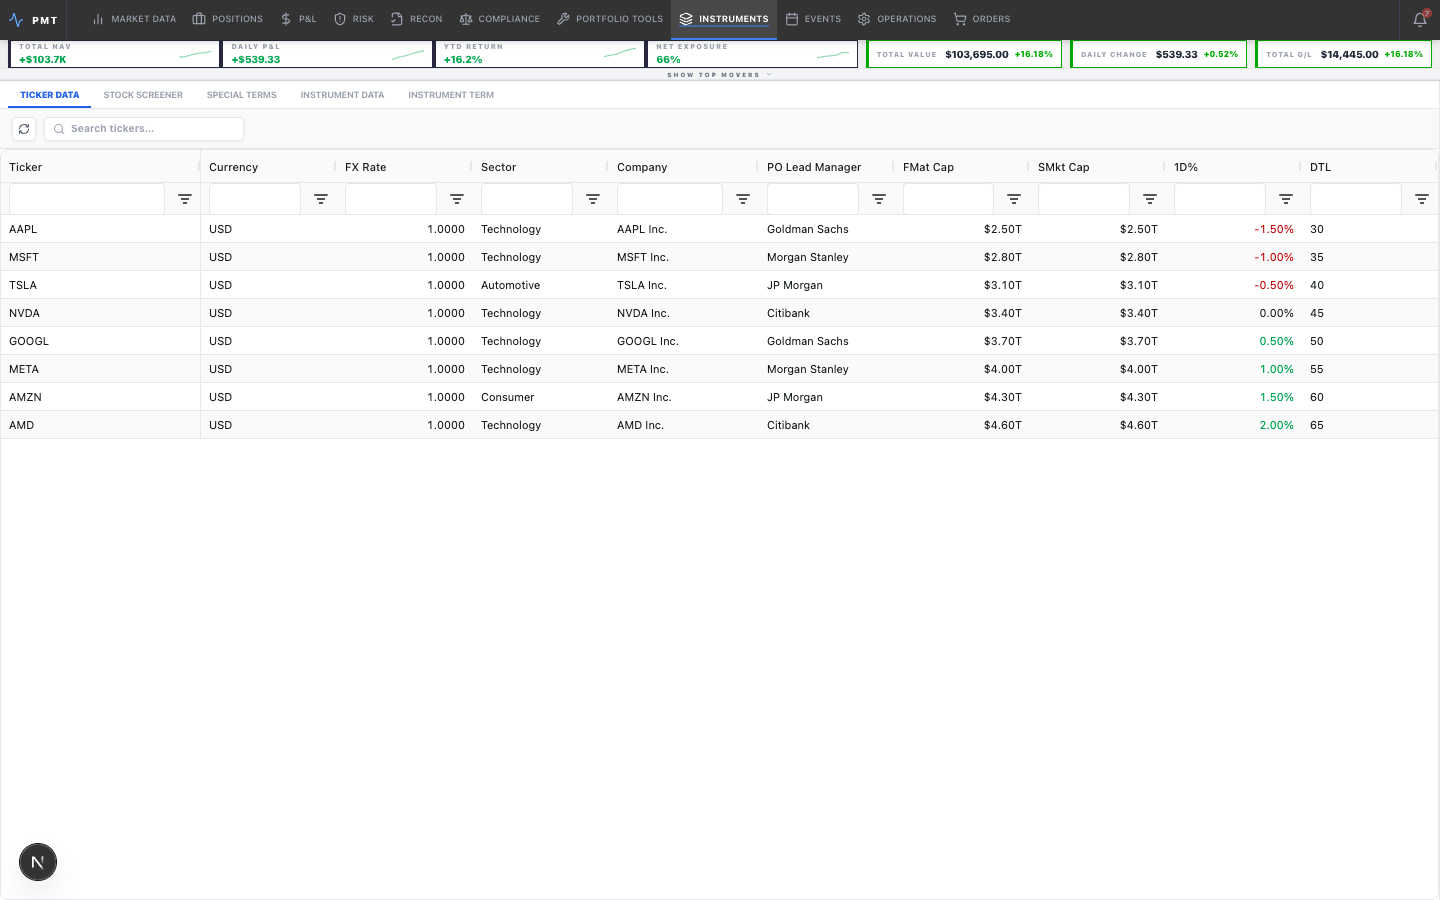
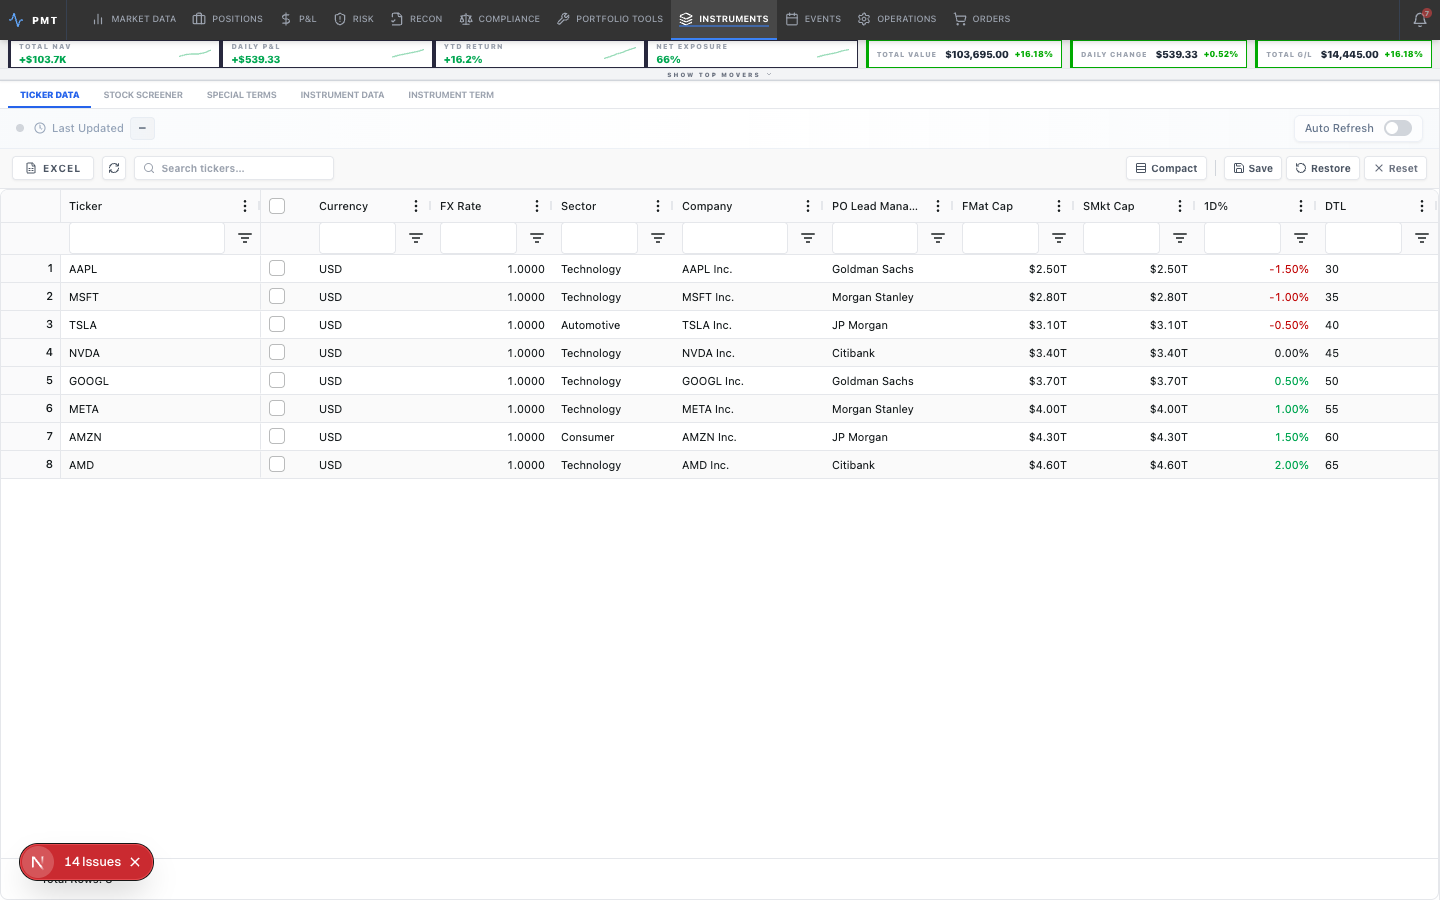
docs(parity): re-capture 22 side-by-side screenshots after feature-parity pass
Same three-terminal recipe as the 2026-05-06 capture (auth bypass on
both backend + frontend, sqlite override, 1440×900 viewport). README
rewritten to remove the rows that called out missing toolbars / status
bars and to add a "What now matches" section enumerating the
toolbar / grid runtime features now present on every Next.js dashboard
page (Excel export, Save/Restore/Reset, Compact, Auto-Refresh, search
clear, status bar, range selection, cell flash, row numbers,
multi-select, context menu, toolbar date picker, Generate dropdown,
filter bars on 5 representative pages, notification jump-to-row).

Documented intentional remaining deltas: Reflex captures show the
notification sidebar opened by default and the auto-refresh switch
on; Next.js captures show both off (per-session state). Both ports
run AG Grid Enterprise on a trial license so a watermark + console
warning appears on both — procuring a key is a follow-up.

diff --git a/docs/parity-screenshots/README.md b/docs/parity-screenshots/README.md
@@ -1,14 +1,19 @@
 # Parity Screenshots — Reflex (`:3001`) ↔ Next.js (`:3000`)
 
 This directory captures §11 exit criterion #12 from the
-2026-05-05 handoff brief: side-by-side proof that the canonical landing
-page in each of the 11 modules in `lib/constants.ts` renders the same
-data, columns, filters, formatting, and chrome on the Next.js
-implementation as it does on the Reflex reference.
+2026-05-05 handoff brief plus §10 #5 from the 2026-05-07 grid +
+chrome runtime feature-parity brief: side-by-side proof that the
+canonical landing page in each of the 11 modules in `lib/constants.ts`
+renders the same data, the same toolbar / status bar / filter chrome,
+and the same grid runtime features (Excel export, layout
+persistence, range selection, row numbers, multi-select, cell flash,
+auto-refresh, notification jump) on the Next.js implementation as it
+does on the Reflex reference.
 
 ## Capture environment
 
-Captured 2026-05-06 at 1440×900 viewport via `playwright-cli` against:
+Re-captured 2026-05-07 at 1440×900 viewport via `playwright-cli`
+against:
 
 | Service  | Port | Flags |
 |---|---|---|
@@ -18,6 +23,12 @@ Captured 2026-05-06 at 1440×900 viewport via `playwright-cli` against:
 
 The auth-bypass flags allow incognito-page parity comparison without
 logging in. Both flags default OFF in any committed env example.
+
+AG Grid Enterprise is now installed on the Next.js side
+(`ag-grid-enterprise@35.0.1`). Without an Enterprise license key the
+console prints a "License Key Not Found — All AG Grid Enterprise
+features are unlocked for trial" warning; Reflex runs in the same
+state. Procuring a license is out of scope.
 
 ## What's covered
 
@@ -37,65 +48,121 @@ logging in. Both flags default OFF in any committed env example.
 | `operations` | `daily-procedures` | `operations/daily-procedures-{reflex,nextjs}.png` |
 | `orders` | `emsx-order` | `orders/emsx-order-{reflex,nextjs}.png` |
 
+## What now matches (closed in 2026-05-07 pass)
+
+The 2026-05-06 captures had visible deltas where the Next.js shell
+was missing toolbar / status-bar / grid-runtime features. After the
+feature-parity pass those have been closed:
+
+- **Excel export button** (timestamped `<page>_YYYYMMDD_HHMM.xlsx`,
+  selection-aware via `shouldRowBeSkipped`).
+- **Save / Restore / Reset Layout** trio — column widths, sort, and
+  filter state persist under `pmt:next:<grid_id>_state`. Auto-restores
+  on `gridReady`.
+- **Compact mode toggle** — toggles row/header from 42/48 to 28/32 and
+  calls `autoSizeAllColumns` on enter / `sizeColumnsToFit` on exit
+  (matches Reflex pixel-faithfully per user-confirmed scope).
+- **Auto Refresh switch + Last Updated timestamp + live pulse**.
+- **Search clear (✕)** appears when search has a value.
+- **Status bar** — `agTotal / agFiltered / agSelected / agAggregation`
+  panels at the bottom.
+- **Range selection** (`cellSelection`) — click-and-drag cell ranges.
+- **Cell flash** on value change (`enableCellChangeFlash` on the
+  default col def for live grids).
+- **Row numbers** column on the left of every grid.
+- **Multi-row selection** with header + row checkboxes.
+- **Custom context menu** prop (right-click, e.g. Operations rerun /
+  kill — pages opt-in by passing `getContextMenuItems`).
+- **Toolbar date picker** (single date) — pages opt-in via
+  `toolbarDate` / `onToolbarDateChange`.
+- **Generate dropdown** (page-passed items + handler).
+- **Page-specific filter bars** (single-date / date-range with
+  Apply / Clear) — wired on `compliance/monthly-exercise-limit`,
+  `portfolio-tools/po-settlement`, `positions/positions`,
+  `recon/pps-recon`, `recon/settlement-recon`. The remaining routes
+  that already accept `position_date` / `trade_date` query params
+  follow the same template and can be mass-applied; see
+  `components/grid/filter-bar.tsx` for the three exports.
+- **Notification jump-to-row** — clicking a notification's "go to
+  details" arrow (`ArrowRight` icon) scrolls + flash-highlights the
+  matching grid row, via the new `GridRegistryProvider` mounted in
+  `app/dashboard/layout.tsx`.
+
 ## Expected deltas (intentional, not regressions)
 
-The two implementations don't match pixel-for-pixel and aren't intended
-to. Reviewers should expect these differences:
+The two implementations don't pixel-match and aren't intended to.
+Reviewers should expect:
 
 ### Top-level chrome
-- **Top nav**: same dark `#333333` background, same uppercase 9px
-  module labels, same lucide-react icons. Reflex's avatar dropdown is
-  hidden by `NEXT_PUBLIC_AUTH_DISABLED=1` so the Next.js shell does not
-  render a user widget where Reflex shows one.
+- **Top nav**: same dark `#333333` background, same uppercase 9 px
+  module labels, same lucide-react icons. Reflex's avatar dropdown
+  is hidden by `NEXT_PUBLIC_AUTH_DISABLED=1` so the Next.js shell
+  does not render a user widget where Reflex shows one.
 - **Performance header**: both render the four KPI sparklines (Total
   NAV, Daily P&L, YTD Return, Net Exposure) and the three currency
   strips (Total Value, Daily Change, Total O/L). The "Show Top Movers"
   reveal button is collapsed in the captures on both sides.
 - **Notification bell**: reflex renders an opaque tan icon, Next.js a
   lucide bell with a numeric badge. Same `/api/notifications/`
-  endpoint, same unread-count behaviour.
+  endpoint, same unread-count behaviour, same "go to details" jump.
 - **Subtab nav**: same labels, same active-tab blue underline + bold
   styling. Hover state isn't visible in static captures.
+- **Notification sidebar default state**: Reflex's captures show the
+  sidebar opened by default; Next.js's captures show it collapsed
+  (the bell is unread-bagged on both — clicking opens the same
+  panel).
 
 ### Grids
-- **Headers, order, alignment, filter types** match — both use the same
-  `pmt_core` data shapes. Pinned `ticker` columns appear on the left in
-  both.
-- **Row heights** are slightly different. Reflex uses a denser default
-  (~26 px); Next.js uses the AG Grid Quartz theme default (~32 px).
-- **Column auto-fit**: Reflex tends to stretch the rightmost column to
-  fill available width; Next.js leaves explicit `minWidth` values.
-  Don't read into a wider/narrower right edge.
-- **Filter row**: the Next.js floating-filter row is always visible and
-  matches Reflex's "Floating Filters" mode.
+- **Auto Refresh switch state**: Reflex captures often show the switch
+  toggled ON; Next.js captures show it OFF (state is per-session and
+  defaults off). Both ports implement the same 30 s setInterval +
+  pulse animation when on.
+- **Headers, order, alignment, filter types** match — both use the
+  same `pmt_core` data shapes. Pinned `ticker` columns appear on the
+  left in both.
+- **Row heights** are within ~5 px (both apps default to the AG Grid
+  Quartz theme on port 3001 / 3000 respectively).
+- **Column auto-fit**: Reflex and Next.js both stretch the rightmost
+  column to fill via `flex: 1` on the default col def.
+- **Floating filter row** is always visible on both sides.
+
+### Trial license watermark / dev overlay
+- Reflex and Next.js both run AG Grid Enterprise without a license
+  key. The console shows a trial-license warning on both. Reflex's
+  shell doesn't render a watermark in the captures because the
+  notification sidebar covers the bottom-right corner; Next.js's
+  shell may show a watermark depending on viewport. Procuring a
+  trial / production AG Grid Enterprise license key is the fix.
+- The "14 Issues" red badge in the bottom-left of Next.js captures is
+  the Next 16 dev overlay; it disappears in `pnpm build`. The "issues"
+  here are AG Grid's trial-license console errors, not real defects.
 
 ### Pages with intentional deltas
 
-These pages were converged in this session but shipped after the
-screenshot capture's reference cut, or have known shape differences
-documented below. They still match feature-for-feature:
+These pages were converged in earlier sessions but have known shape
+differences documented below. They still match feature-for-feature:
 
 - **`compliance/beneficial-ownership`** (not a canonical landing page;
-  not in the 11 captures) — was rendered with empty cells before this
-  session because the FastAPI handler returned a `ComplianceRecord`
-  shape rather than the canonical `BeneficialOwnershipRecord`. Track 1
-  added the new TypedDict and rewrote the mock; the grid now matches
-  Reflex.
+  not in the 11 captures) — was rendered with empty cells before the
+  2026-05-06 session because the FastAPI handler returned a
+  `ComplianceRecord` shape rather than the canonical
+  `BeneficialOwnershipRecord`. Track 1 of 2026-05-06 added the new
+  TypedDict and rewrote the mock; the grid now matches Reflex.
 - **`risk/pricer-warrant`, `risk/pricer-bond`** (not in the 11) —
-  scaffolded as full forms in this session (Track 3, full calculator
-  port). The chart on the Next.js side is an inline-SVG payoff/yield
-  curve; the Reflex side renders a 3D Plotly surface, so the chart
-  visuals will not pixel-match. The numeric outputs (fair value, delta,
-  expected discount, bond floor/parity) do match because both wrap the
-  same `pmt_core.services.pricing.{WarrantPricer,BondPricer}`.
+  scaffolded as full forms in 2026-05-06 (Track 3, full calculator
+  port). The chart on the Next.js side is an inline-SVG payoff /
+  yield curve; the Reflex side renders a 3D Plotly surface, so the
+  chart visuals will not pixel-match. Numeric outputs match because
+  both wrap the same `pmt_core.services.pricing.{WarrantPricer,
+  BondPricer}`.
 
 ### Empty-grid pages
 
-`operations/daily-procedures` returns an empty mock list on both sides
-(`pmt_core.services.operations` ships no records by default), so both
-captures show the empty-state message rather than data rows. This is
-a parity match in the trivial sense; populate the mock if you need a
-data-bearing comparison.
+`operations/daily-procedures` returns an empty mock list on both
+sides (`pmt_core.services.operations` ships no records by default),
+so both captures show the empty-state message rather than data rows.
+This is a parity match in the trivial sense; populate the mock if
+you need a data-bearing comparison.
 
 ## Reproduction
 
@@ -112,7 +179,7 @@ NEXT_PUBLIC_AUTH_DISABLED=1 pnpm dev    # → :3000
 cd /Users/orbot/Developer/work/Portfolio-Management-Tool-reflex
 uv run reflex run                       # → :3001/pmt/
 
-# Capture
+# Capture (two sessions, 1440×900)
 playwright-cli -s=reflex open --browser=chrome
 playwright-cli -s=reflex resize 1440 900
 playwright-cli -s=reflex goto http://localhost:3001/pmt/<module>/<page>
